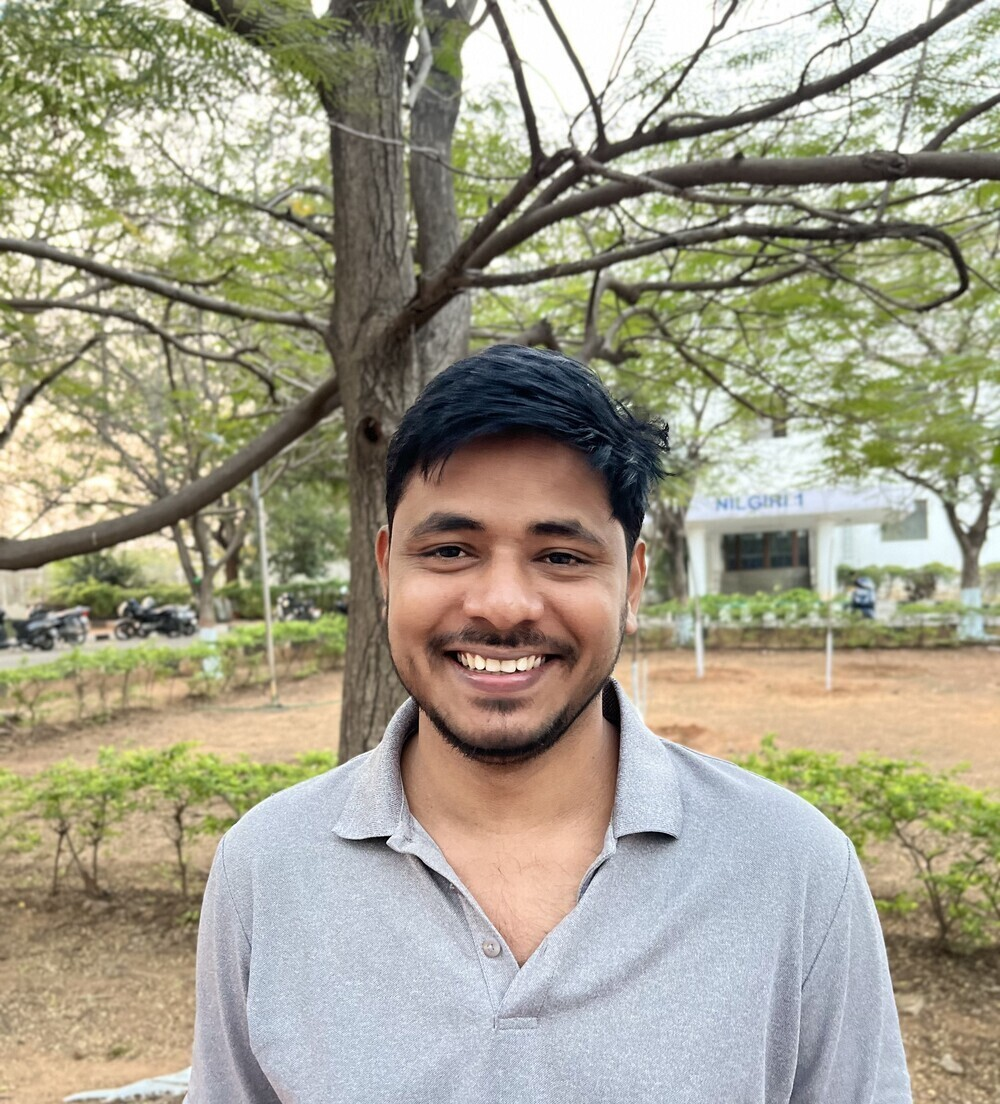
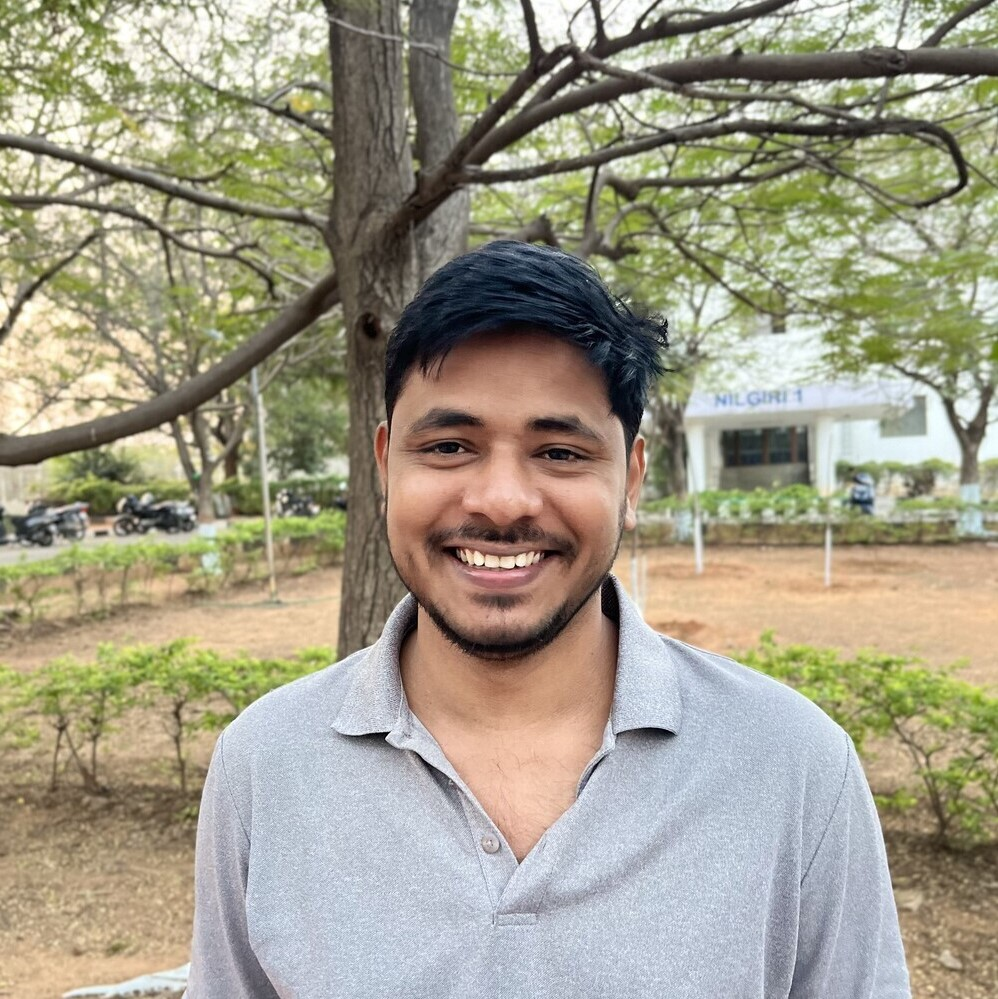
add teaching content

diff --git a/_sass/main.scss b/_sass/main.scss
@@ -20,7 +20,7 @@
 }
 
 .person-image {
-    max-height: 200px;
+    max-width: 200px;
     object-fit: cover;
     margin-bottom: 0.5rem;
 }

diff --git a/teaching.md b/teaching.md
@@ -6,16 +6,38 @@ permalink: /teaching
 
 # Courses
 
-This is the base Jekyll theme. You can find out more info about customizing your Jekyll theme, as well as basic Jekyll usage documentation at [jekyllrb.com](https://jekyllrb.com/)
-
-You can find the source code for Minima at GitHub:
-[jekyll][jekyll-organization] /
-[minima](https://github.com/jekyll/minima)
+<div class="courses">
+    {% for course in site.data.teaching.courses %}
+        <div class="teaching-card">
+            <div class="teaching-image">
+                <img class="img-fluid" src="assets/{{ course.image }}">
+            </div>
+            <div class="teaching-text"> 
+                <h6>{{ course.title }}</h6>
+                <div class="teaching-date">
+                    {% for item in course.sems %}
+                        <a href="{{ item.page }}" target="_blank"> {{item.sem}} </a>
+                    {% endfor %}
+                </div>
+            </div>
+        </div>
+    {% endfor %}
+</div>
 
 # Workshops & Tutorials
 
-This is the base Jekyll theme. You can find out more info about customizing your Jekyll theme, as well as basic Jekyll usage documentation at [jekyllrb.com](https://jekyllrb.com/)
-
-You can find the source code for Minima at GitHub:
-[jekyll][jekyll-organization] /
-[minima](https://github.com/jekyll/minima)
+<div class="workshops">
+    {% for workshop in site.data.teaching.workshops %}
+        <div class="teaching-card">
+            <div class="teaching-image">
+                <img class="img-fluid" src="assets/{{ workshop.image }}">
+            </div>
+            <div class="teaching-text"> 
+                <h6>{{ workshop.title }}</h6>
+                <div class="teaching-date">
+                    <a href="{{ workshop.page }}" target="_blank"> {{workshop.year}} </a>
+                </div>
+            </div>
+        </div>
+    {% endfor %}
+</div>
